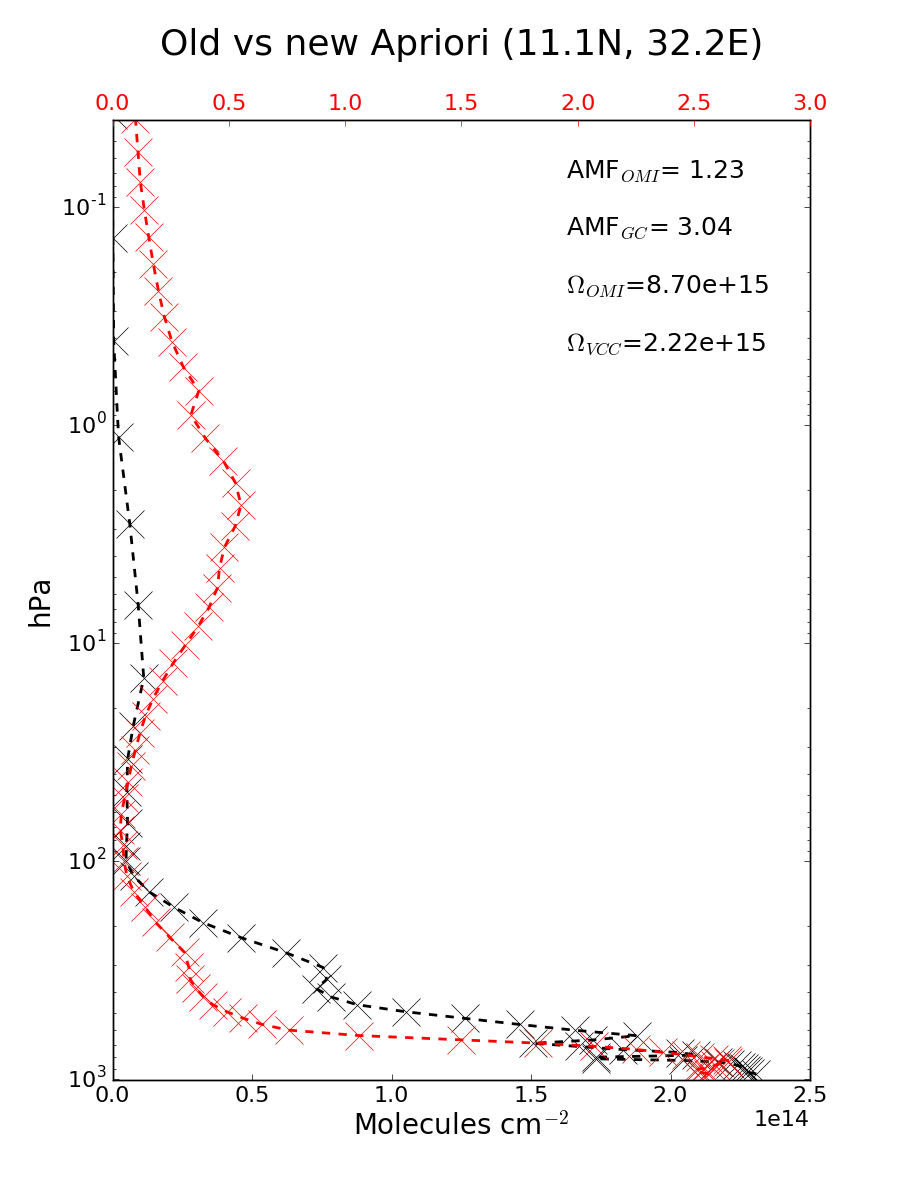
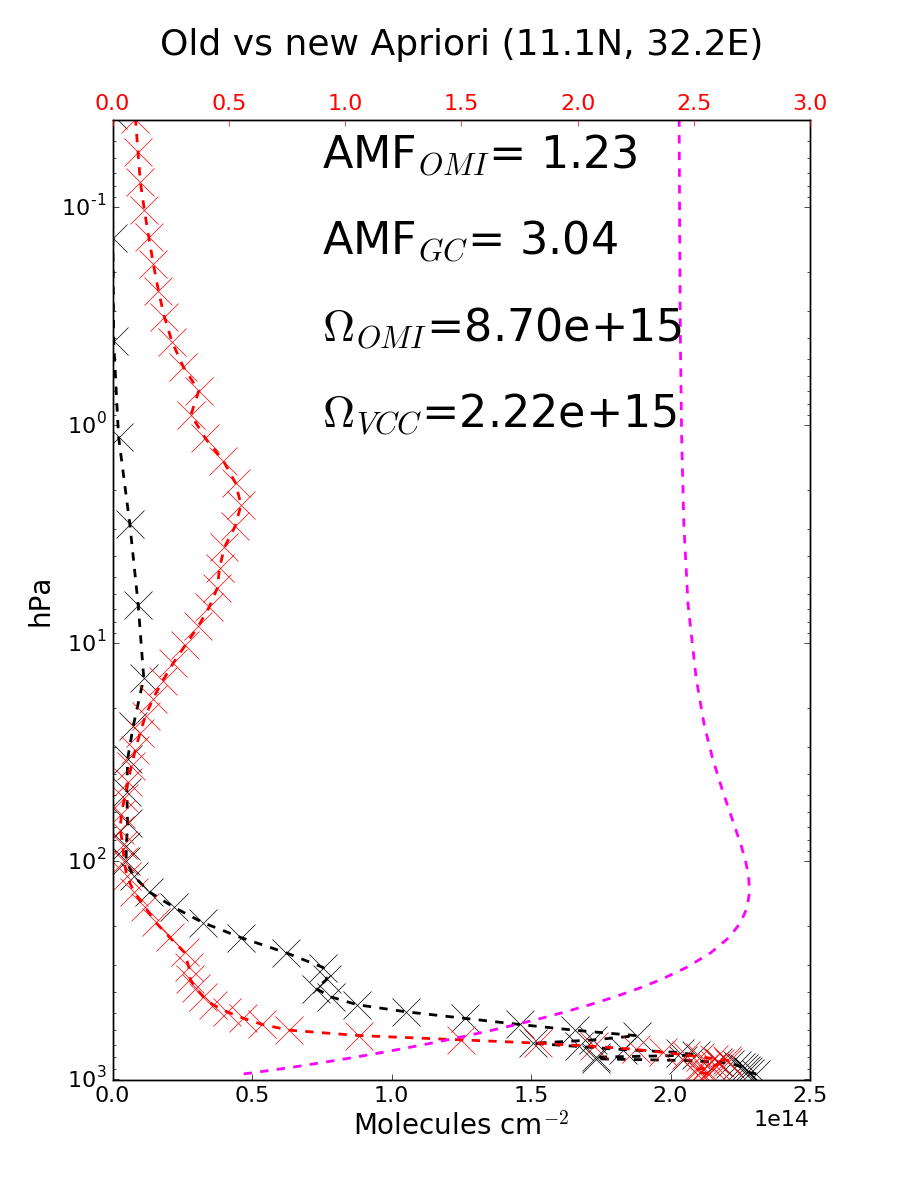
Added Omega to Pixel Summary

diff --git a/tests.py b/tests.py
@@ -279,6 +279,7 @@ def Summary_Single_Profile():
     plt.ylabel('hPa')
     ax=plt.twiny()
     plt.plot(gcapri, gc_pmids,'--rx',linewidth=2,markersize=20)
+    plt.plot(omega, w_pmids, '--',linewidth=2,color='fuchsia')
     plt.title('Old vs new Apriori (%4.1fN, %4.1fE)'%(lat,lon),y=1.06)
     ax.tick_params(axis='x', colors='red')
     plt.ylim([1015, .04])
@@ -291,10 +292,11 @@ def Summary_Single_Profile():
     vcc=omhchorp.VCC[omlati,omloni]
     
     ta=plt.gca().transAxes
-    plt.text(.65,.94, 'AMF$_{OMI}$=%5.2f'%AMF_OMI,transform=ta)
-    plt.text(.65,.88, 'AMF$_{GC}$=%5.2f'%AMFS,transform=ta)
-    plt.text(.65,.82, '$\Omega_{OMI}$=%4.2e'%(SC/AMF_OMI),transform=ta)
-    plt.text(.65,.76, '$\Omega_{VCC}$=%4.2e'%vcc,transform=ta)
+    fs=32
+    plt.text(.3,.95, 'AMF$_{OMI}$=%5.2f'%AMF_OMI,transform=ta, fontsize=fs)
+    plt.text(.3,.86, 'AMF$_{GC}$=%5.2f'%AMFS,transform=ta, fontsize=fs)
+    plt.text(.3,.77, '$\Omega_{OMI}$=%4.2e'%(SC/AMF_OMI),transform=ta, fontsize=fs)
+    plt.text(.3,.68, '$\Omega_{VCC}$=%4.2e'%vcc,transform=ta, fontsize=fs)
     
     fname='pictures/SummarySinglePixel.png'
     f.savefig(fname)
